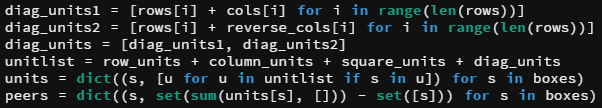
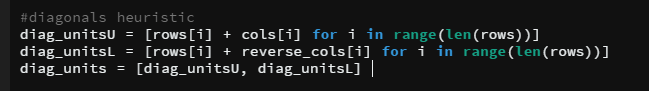
finalised solution, and readme.md re-formatting for udacity-pa passing submission.

Changed region(s): [[0.0, 0.5055, 1.0, 0.967], [0.0, 0.044, 0.9867, 0.4835]]

diff --git a/solution.py b/solution.py
@@ -6,7 +6,7 @@ https://github.com/udacity/aind-sudoku
 
 '''
 
-#Todo: udacity-pa passing
+#Done: udacity-pa passing
 
 assignments = []
 
@@ -37,8 +37,8 @@ def naked_twins(values):
     nakedtwins = {(box1, box2) for box1 in boxlist for box2 in NKDpeers[box1] if set(values[box1]) == set(values[box2])}
 
     # ALGO/DEBUG
-    # print("\n Candidates for NKEDTWIN Boxes are: ",boxlist)
-    # print("\n REAL Candidates for NKEDTWIN Boxes are: ",nakedtwins)
+    #print("\n Candidates for NKEDTWIN Boxes are: ", boxlist)
+    #print("\n REAL Candidates for NKEDTWIN Boxes are: ", nakedtwins)
 
     # finding waldo.
     for pairs in nakedtwins:
@@ -49,7 +49,7 @@ def naked_twins(values):
         # print("\n\n PEERNET: ",peerNET, "\n PAIRS:" ,pairs) #ALGO/DEBUG
         for peer in peerNET:
             # deletion at len of str > 1, (or 2?)
-            if len(values[peer]) > 2:
+            if len(values[peer]) > 1:
                 for VAL in str(values[pairs[0]]):
                     if VAL in str(values[peer]):
                         values = assign_value(values, peer, values[peer].replace(VAL, ''))
@@ -216,9 +216,12 @@ row_units = [cross(r, cols) for r in rows]
 column_units = [cross(rows, c) for c in cols]
 square_units = [cross(rs, cs) for rs in ('ABC', 'DEF', 'GHI') for cs in ('123', '456', '789')]
 reverse_cols = cols[::-1]
-diag1 = [rows[i] + cols[i] for i in range(len(rows))]
-diag2 = [rows[i] + reverse_cols[i] for i in range(len(rows))]
-diag_units = [diag1, diag2]
+
+#diagonals heuristic
+diag_unitsU = [rows[i] + cols[i] for i in range(len(rows))]
+diag_unitsL = [rows[i] + reverse_cols[i] for i in range(len(rows))]
+diag_units = [diag_unitsU, diag_unitsL]
+
 unitlist = row_units + column_units + square_units + diag_units
 units = dict((s, [u for u in unitlist if s in u]) for s in boxes)
 peers = dict((s, set(sum(units[s], [])) - set([s])) for s in boxes)

diff --git a/README.md b/README.md
@@ -1,29 +1,33 @@
-# Artificial Intelligence Nanodegree
-## Introductory Project: Diagonal Sudoku Solver
+###Artificial Intelligence Nanodegree
 
-<img src=images/sudoku-board-bare.jpg>
+---
+####Introductory Project: Diagonal Sudoku Solver
 
-# Question 1 (Naked Twins)
-Q: How do we use constraint propagation to solve the naked twins problem?  
+---
+    <img src=images/sudoku-board-bare.jpg>
 
-A: Constraint Propagation is the repeated application of the same rules, until any further refinement is not possible. With naked twins, the idea is to identify a pair/s of boxes belonging to the same set of peers, where the pairs have the same 2 numbers as their possible solutions.
+###Question 1 (Naked Twins)
 
-<img src=images/naked-twins.png>
+Q: How do we use constraint propagation to solve the naked twins problem? 
+A: Constraint Propagation is the repeated application of the same set of rules in order to minimize the solution space, until any further refinement is not possible/feasible. 
+    
+   With naked twins, the idea is to identify pair/s of boxes belonging to the same set of sudoku peers, such that the offending pairs have the same 2 numbers within their possible solutions.
 
-To do this we have to eliminate the particular common solution from every other peer that is not in the naked_twin pair.
+    <img src=images/naked-twins.png>
+    
+   To do this we have to eliminate the common solution found in our naked_twin_pair from every other peer that is not in the naked_twin_pair, and has more possible solutions than our chosen pair.
+    
+    <img src=images/naked-twins-2.png>
+    <img src=images/naked-twins-code.png>
+    
+###Question 2 (Diagonal Sudoku)
 
-<img src=images/naked-twins-2.png>
+Q: How do we use constraint propagation to solve the diagonal sudoku problem? 
 
-<img src=images/naked-twins-code.png>
+A: By including it as an additional way of counting units/peer space. Once done, all diagonal entries will have their corresponding diagonal peers. 
+   Essentially making it behave similarly to the pre-existing Cartesian/Latin-Square Grid, by making it's own diagonal grid with *diagonal* rules.
 
-
-# Question 2 (Diagonal Sudoku)
-Q: How do we use constraint propagation to solve the diagonal sudoku problem?  
-
-A: *By including it as an additional way of counting units along the upper and lower diagonals, in addition to the (2) orthogonal and the sub-square units. Once done, all diagonal entries will have corresponding diagonal peers*
-
-<img src=images/diagunits.png>
-
+    <img src=images/diagunits.png>
 ### Install
 
 This project requires **Python 3**.
